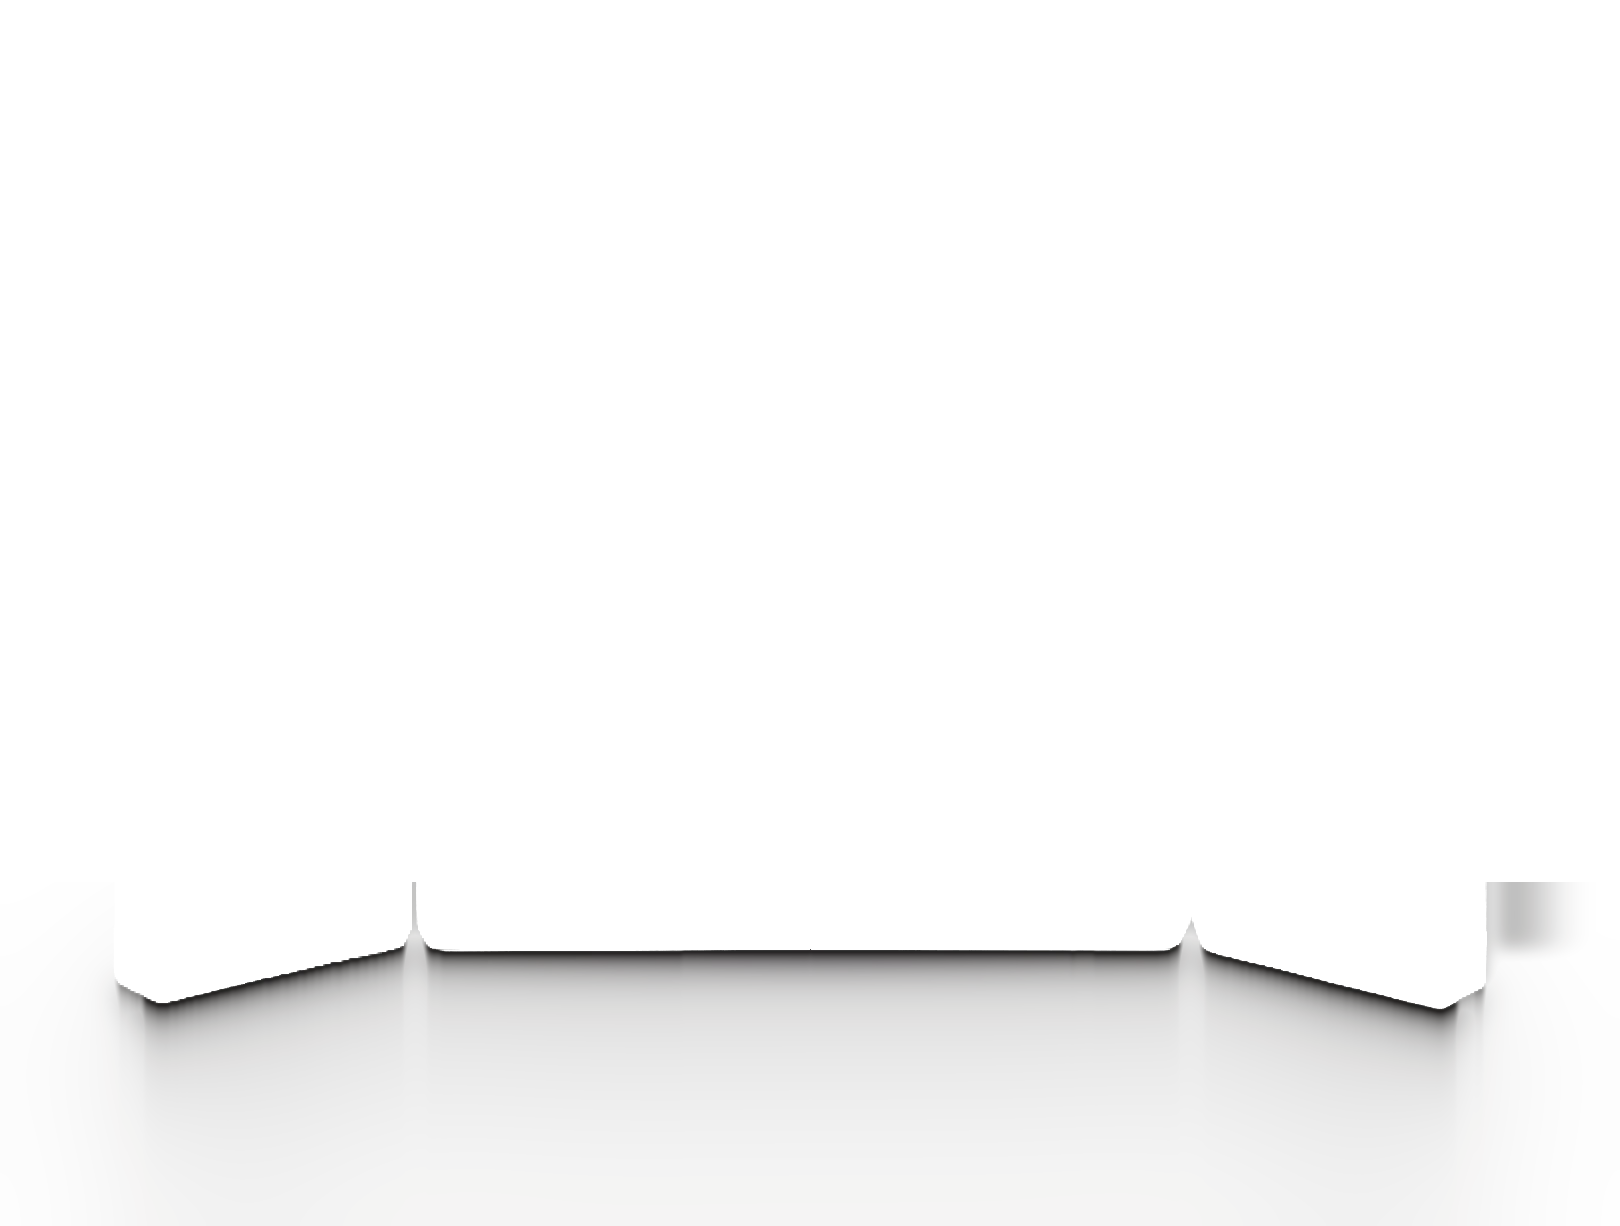
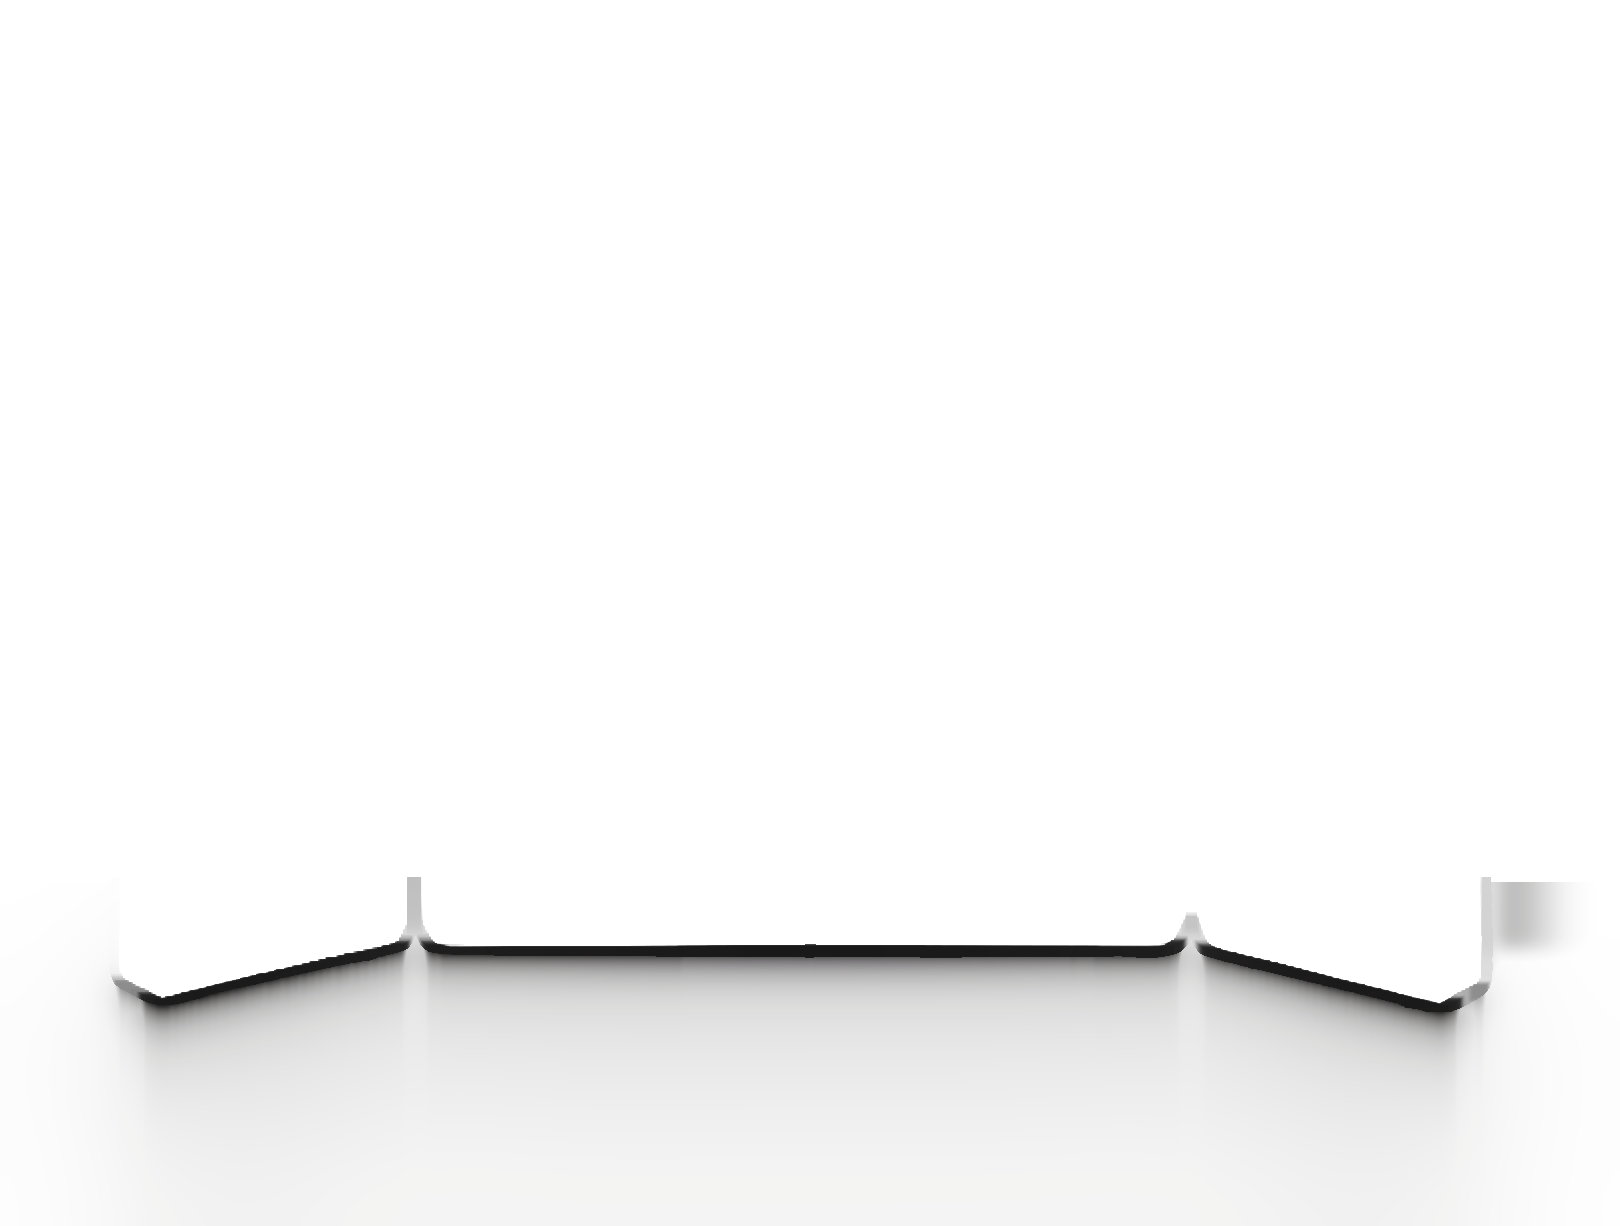
Home no longer shows the edition's line under the case ("Day Edition · Friday Call", "your local time") at any width. When the trunk has finished opening, its shadow no longer blinks: the case's shadow at rest comes on in the same frame as the clip ends (timed to this 4.42 s take) and the clip is cu

diff --git a/app/globals.css b/app/globals.css
@@ -1079,7 +1079,7 @@ main:has(.inktip[data-open="true"]) .night-cam[data-on] { opacity: .55; transiti
   font: 700 calc(15 * var(--u)) / 1 var(--font-typewriter), monospace; letter-spacing: .02em; color: var(--ink, #2a241c); }
 /* Links only once the camera is on the file: before, a click brings it. */
 a.jury-card__row, .jury-tag, .postcard { pointer-events: none; }
-[data-desk="open"] .desk-card--stack[data-side="here"] :is(a.jury-card__row, .jury-tag, .postcard) { pointer-events: auto; cursor: pointer; }
+[data-desk="open"] .desk-card--stack[data-side="here"] :is(a.jury-card__row, .jury-tag, .postcard, .sticky-note__go) { pointer-events: auto; cursor: pointer; }
 [data-desk="open"] .desk-card--stack[data-side="here"] a.jury-card__row:hover { background-color: rgba(179, 49, 42, .1); }
 [data-desk="open"] .desk-card--stack[data-side="here"] .postcard:hover { z-index: 5 !important; }
 /* A pointer over a file not in focus: its postcards come a little way out
@@ -1107,6 +1107,9 @@ a.jury-card__row, .jury-tag, .postcard { pointer-events: none; }
 .sticky-note__status { align-self: flex-start; margin-top: auto; padding: calc(3 * var(--u)) calc(5 * var(--u));
   border: calc(.6 * var(--u)) dashed #22283a; border-radius: calc(1.6 * var(--u));
   font: 700 calc(4.2 * var(--u)) / 1 var(--font-mono, ui-monospace), ui-monospace, monospace; letter-spacing: .18em; text-transform: uppercase; color: #22283a; }
+/* a case on Behance only (Atumatu): the note's foot is the red button there */
+.sticky-note__go { border: 0; background: #c21f10; color: #fff; text-decoration: none; }
+[data-desk="open"] .desk-card--stack[data-side="here"] .sticky-note__go:hover { background: #a3190c; }
 /* The row's last card: the way to Case Studies (/work), every case file.
    A plain card for now (DeskScene's ALL); its own folder later. */
 .desk-card--all { display: flex; flex-direction: column; justify-content: space-between; box-sizing: border-box;
@@ -1243,7 +1246,6 @@ a.jury-card__row, .jury-tag, .postcard { pointer-events: none; }
   background: radial-gradient(closest-side, rgba(20, 16, 12, .32), rgba(20, 16, 12, .14) 70%, transparent); }
 [data-desk="open"] .desk-card--stack[data-side="here"] .stack-fabric { transform: translate(calc(-50% - 20 * var(--u)), calc(-50% + 60 * var(--u))) rotate(-5deg); }
 [data-desk="open"] .desk-card--stack[data-side="here"] .postcard--portrait { transform: translate(calc(-50% + 140 * var(--u)), -50%) rotate(3deg); }
-[data-desk="open"] .desk-card--stack:has(.stack-fabric)[data-side="here"] .jury-tag { left: calc(50% + 6 * var(--u)); transform: translate(-50%, calc(28 * var(--u))) rotate(-4deg); }
 /* WayPro's moss (640 × 579, with its fly agarics) on the card's corner and
    more fly agarics (639 × 640) beside the stack, as on its board 04;
    fanned, the moss stays on the card. */
@@ -1252,7 +1254,9 @@ a.jury-card__row, .jury-tag, .postcard { pointer-events: none; }
 .stack-moss { z-index: 7; display: block; width: calc(84 * var(--u)); transform: translate(calc(-50% + 58 * var(--u)), calc(-50% - 52 * var(--u))) rotate(12deg); }
 .stack-moss > img:first-child { display: block; width: 100%; height: auto; }
 .stack-moss .stack-side { left: 15%; width: 70%; aspect-ratio: 600 / 415; }
-[data-desk="open"] .desk-card--stack[data-side="here"] .stack-moss { transform: translate(calc(-50% - 44 * var(--u)), calc(-50% - 58 * var(--u))) rotate(12deg); }
+/* open, on the card's top right corner, under the sticky note rather than
+   on it (it stood on the note's lower half) */
+[data-desk="open"] .desk-card--stack[data-side="here"] .stack-moss { transform: translate(calc(-50% - 4 * var(--u)), -50%) rotate(12deg); }
 .stack-mush { z-index: 0; display: block; width: calc(74 * var(--u)); transform: translate(calc(-50% + 136 * var(--u)), calc(-50% + 62 * var(--u))) rotate(-18deg); }
 /* lying on the desk they have a body (Kate, 28.09): caps and stems a
    little thick toward the camera, and their shadow — on the picture, not
@@ -1643,13 +1647,9 @@ html[data-desk-focus="ukrainska-15"] .desk-card[data-side="right"] { --slide: 15
   :root:is(:not([data-desk]), [data-desk="closed"]) :is(main:has(.case-stage), .scene-cam) { touch-action: pan-y; }
   :is([data-desk="award"], [data-desk="offduty"]) :is(main:has(.case-stage), .scene-cam) { touch-action: none; }
   :is([data-desk="award"], [data-desk="offduty"])[data-desk-arrived] .desk-plane { pointer-events: auto; }
-  /* the edition's line under the case goes along with it (on a tablet:
-     a phone does not show it, below), and the night's lamp pool with the
-     lamp */
-  :is(.hero-caption, .night-room) { translate: var(--pano-shift, 0px) 0; }
+  /* the night's lamp pool goes along with the lamp */
+  .night-room { translate: var(--pano-shift, 0px) 0; }
 }
-/* the edition's line under the case is not shown on a phone (Kate, 01.10) */
-@media (max-width: 767px) { .hero-caption { display: none; } }
 
 /* The wallet: a zero-width hinge at the spine, the two halves swung toward
    the room about it. The player: a still standing on the desk, its screen
@@ -1874,11 +1874,9 @@ html[data-desk-focus="ukrainska-15"] .desk-card[data-side="right"] { --slide: 15
 /* it stays where it lies: only its card comes up (see .u15-view) */
 [data-desk="open"] .desk-card--env:hover,
 [data-desk="open"] .desk-card--env:focus-within { transform: translateX(calc(var(--slide, 0) * var(--u))) rotate(var(--r)) translateZ(.1px); }
-/* The page around it: the lines under the case step aside; the column —
-   title, lead and index — stays as it is on every page, inked for the white
-   desk (over the dark wall it keeps its own colours). */
-.hero-caption { transition: opacity .5s ease; }
-[data-desk="open"] .hero-caption, [data-desk="award"] .hero-caption, [data-desk="profile"] .hero-caption, [data-desk="offduty"] .hero-caption { opacity: 0; pointer-events: none; }
+/* The page around it: the column — title, lead and index — stays as it is
+   on every page, inked for the white desk (over the dark wall it keeps its
+   own colours). */
 /* Over the desk the column's title and lead stay, but only its links take the
    pointer, so what lies under the words can still be picked up. The ink turns
    dark only where the column stands over the white desk (1440px and up);
@@ -2439,9 +2437,10 @@ html[data-desk-focus="ukrainska-15"] .desk-card[data-side="right"] { --slide: 15
    transitions with it, so a skip lands at once. */
 /* the closed trunk is in the server HTML; without the gate it never shows */
 :root:not([data-intro]):not([data-load]) .intro-open { display: none; }
-/* the clip carries the case's shadow while the doors swing; the desk's own
-   and the case's floor shadows wait, then take over from it at "shadow" */
-[data-load] .case-shadow { opacity: 0; transition: opacity .3s linear; }
+/* the clip carries the case's shadow while the doors swing; the case's
+   shadow at rest waits, then takes over from it at "shadow" in one frame,
+   as the clip is cut to its doors (IntroOpen) — no crossfade */
+[data-load] .case-shadow { opacity: 0; }
 [data-load~="shadow"] .case-shadow { opacity: 1; }
 /* the desk's pre-rendered shadow of the case is off: the case's shadow is the
    opening clip's own, kept at rest (app/page.tsx, rest_shadow.webp) */

diff --git a/components/IntroOpen.tsx b/components/IntroOpen.tsx
@@ -31,7 +31,7 @@ import { useCallback, useEffect, useRef, useState } from "react";
  *
  * The shadow on the desk is worked out from each frame's own silhouette and
  * baked into the clip below the case; its last frame, kept as
- * rest_shadow.webp, is the case's shadow at rest, and comes in at SHADOW_AT.
+ * rest_shadow.webp, is the case's shadow at rest, and comes in at END_AT.
  * The handle is the page's own throughout: it is the same closed and open.
  * The clip's wardrobe is empty (the model could not keep the clothes whole
  * through the swing); the page's hangers turn out to face the room one after
@@ -52,15 +52,19 @@ const FADE_MS = 300;
 const LAMP_AT = 250;
 const TEXT_AT = 300;
 const OPEN_AT = 700;
-/** the clip keeps its own shadow to the end; the page's copy of its last frame
- *  (rest_shadow.webp) comes in under it as it fades (clip seconds) */
-const SHADOW_AT = 4.95;
 /** the clip runs below the case box by its shadow: 146 of its 1226 rows */
 const CLIP_H = `${(1226 / 1080) * 100}%`;
 /** the doors are all but still: the files set off (clip seconds) */
-const FILES_AT = 4.5;
-/** the doors have stopped: the live case takes over (clip seconds) */
-const END_AT = 4.95;
+const FILES_AT = 3.97;
+/** The doors have stopped: the live case takes over (clip seconds; the take
+ *  runs 4.42s). The shadow changes hands in the same frame: rest_shadow.webp
+ *  (the page's copy of the clip's last frame) is on at once, and the clip is
+ *  cut to its doors (doors_mask.webp, the last frame's case without its
+ *  shadow) before it fades. Two half-faded copies of one shadow are lighter
+ *  than either, which was the blink after the doors stopped. */
+const END_AT = 4.38;
+const DOORS_MASK_SRC = "/suitcase/intro/doors_mask.webp";
+const DOORS_MASK = `url(${DOORS_MASK_SRC}) 0 0 / 100% 100% no-repeat`;
 /** the files' own run: the last one's delay plus its slide, and a margin */
 const FILES_MS = 600 + 800 + 150;
 /** how long a step may wait for what it shows before it goes anyway */
@@ -90,6 +94,7 @@ export default function IntroOpen() {
   // the poster stands in for the clip until it runs, then must go: the clip
   // is transparent between the doors, and the closed trunk would show there
   const [playing, setPlaying] = useState(false);
+  const [masked, setMasked] = useState(false);
   const video = useRef<HTMLVideoElement>(null);
   const ended = useRef(false);
   const filed = useRef(false);
@@ -105,11 +110,15 @@ export default function IntroOpen() {
     later(() => { if (performance.now() >= lastStep.current - 20) html().removeAttribute("data-load"); }, ms);
   }, [later]);
 
-  /** the clip is done: the live case takes over under a short fade */
-  const endClip = useCallback(() => {
+  /** the clip is done: the live case takes over under a short fade. Only a
+   *  clip that has run to its end is cut to its doors: on a skip they are
+   *  still swinging, and the mask is the last frame's. */
+  const endClip = useCallback((atRest = false) => {
     if (ended.current) return;
     ended.current = true;
+    setMasked(atRest);
     html().removeAttribute("data-intro");
+    add("shadow");
     add("clothes");
     doneIn(CLOTHES_MS);
     setFading(true);
@@ -144,6 +153,9 @@ export default function IntroOpen() {
     // alpha, so the pick is by engine, not by canPlayType.
     const safari = /Safari\//.test(ua) && !/Chrome\/|Chromium\/|Edg\//.test(ua);
     const id = requestAnimationFrame(() => setSrc(safari ? "/suitcase/intro/open.mov" : "/suitcase/intro/open.webm"));
+    // the doors' mask is needed in the frame the clip ends: fetched now, as
+    // a mask that has not loaded hides the whole clip
+    new Image().src = DOORS_MASK_SRC;
     later(() => add("lamp"), LAMP_AT);
     later(() => add("text"), TEXT_AT);
     // not started at all
@@ -228,14 +240,16 @@ export default function IntroOpen() {
           src={src}
           onTimeUpdate={(e) => {
             const t = e.currentTarget.currentTime;
-            if (t >= SHADOW_AT) add("shadow");
             if (t >= FILES_AT) pushFiles();
-            if (t >= END_AT) endClip();
+            if (t >= END_AT) endClip(true);
           }}
           onPlaying={() => setPlaying(true)}
-          onEnded={() => { add("shadow"); pushFiles(); endClip(); }}
+          onEnded={() => { pushFiles(); endClip(true); }}
           onError={land}
-          style={{ position: "absolute", left: 0, top: 0, width: "100%", height: CLIP_H, objectFit: "fill", display: "block" }}
+          style={{
+            position: "absolute", left: 0, top: 0, width: "100%", height: CLIP_H, objectFit: "fill", display: "block",
+            ...(masked ? { mask: DOORS_MASK, WebkitMask: DOORS_MASK } : null),
+          }}
         />
       )}
     </div>

diff --git a/components/desk/AwardStack.tsx b/components/desk/AwardStack.tsx
@@ -43,13 +43,13 @@ function juriesOf(project: string) {
 // how the postcards lie under the card, and fanned out beside it
 const UNDER = [[10, 12, 5], [-8, 16, -6], [14, -8, 9], [-12, -10, -3]];
 
-export default function AwardStack({ project, title, about, links = [], picture, flat, status = "Case study in progress", tag }: {
+export default function AwardStack({ project, title, about, links = [], picture, flat, away }: {
   project: string; title: string;
-  /** the note's foot: where the case study is */
-  status?: string;
-  /** what a pointer over the file shows, and a way there: where its case
-   *  is written up (else "In progress", while it has a card of awards) */
-  tag?: { label: string; href: string };
+  /** a case written up elsewhere (Behance): a pointer over the file shows
+   *  "On <where>", and the note's foot is a button there. Without it the
+   *  note says the case study is in progress, and the file "In progress"
+   *  while it has a card of awards. */
+  away?: { where: string; href: string };
   links?: { label: string; href: string; external?: boolean }[];
   /** lying flat and closed off the desk (the Case Studies index): no tag,
    *  sticky note or links beside it */
@@ -63,6 +63,8 @@ export default function AwardStack({ project, title, about, links = [], picture,
   // the card's head, as on every copy of it (lib/awards.ts)
   const head = CARD_HEAD[project];
   const juries = juriesOf(project);
+  const awayLink = away && { href: away.href, target: "_blank", rel: "noopener noreferrer", tabIndex: -1,
+    "aria-label": `${title}: on ${away.where} (opens in a new tab)` };
   return (
     <>
       {juries.map(({ jury, records }, i) => {
@@ -123,14 +125,16 @@ export default function AwardStack({ project, title, about, links = [], picture,
         })}
       </div>}
       {!flat && <>
-      {tag
-        ? <a className="stack-soon" href={tag.href} target="_blank" rel="noopener noreferrer" tabIndex={-1}
-            aria-label={`${title}: ${tag.label.replace(" ↗", "")} (opens in a new tab)`}>{tag.label}</a>
+      {awayLink
+        ? <a className="stack-soon" {...awayLink}>On {away!.where} ↗</a>
         : rows.length > 0 && <span className="stack-soon" aria-hidden>In progress</span>}
       <span className="sticky-note stack-note">
         <span className="sticky-note__kicker">{title}</span>
         <span className="sticky-note__text">{about}</span>
-        <span className="sticky-note__status">{status}</span>
+        {/* a case written up elsewhere: its way there, a red button on the note */}
+        {awayLink
+          ? <a className="sticky-note__status sticky-note__go" {...awayLink}>{away!.where} ↗</a>
+          : <span className="sticky-note__status">Case study in progress</span>}
       </span>
       {links.map((l) => (
         <a key={l.href} className="jury-tag" href={l.href} tabIndex={-1}

diff --git a/components/home/Home.tsx b/components/home/Home.tsx
@@ -11,7 +11,6 @@ import HeroAside from "@/components/HeroAside";
 import IntroOpen from "@/components/IntroOpen";
 import { useTime } from "@/components/TimeProvider";
 import { EDITIONS, editionForHour, editionForDate } from "@/lib/time";
-import { mono } from "@/components/ui/type";
 import { DeskPlanes, DeskHint, useDeskCamera } from "@/components/DeskScene";
 import Tardis from "./Tardis";
 import AwardCubby from "./AwardCubby";
@@ -268,16 +267,6 @@ export default function Home({ shelves, kit }: { shelves: ReactNode; kit: ReactN
           className="hero-aside-wrap basis-full order-first max-w-[34ch] mb-7 ml-0 mr-auto min-[1024px]:pr-6 min-[1024px]:ml-0 min-[1024px]:mr-0 min-[1024px]:absolute min-[1024px]:top-0 min-[1024px]:left-6 min-[1024px]:order-none min-[1024px]:basis-auto min-[1024px]:mb-0 min-[1024px]:max-w-none min-[1024px]:w-[19.65vw] min-[1440px]:w-[min(420px,calc(50vw-min(44vw,559px)+122px))]">
           <HeroAside />
         </div>
-      </div>
-
-      {/* Caption */}
-      <div className="hero-caption text-center -mt-2">
-        <p style={{ fontFamily: mono, fontSize: 12, letterSpacing: "0.15em" }} className="uppercase">
-          {edition.label}{edition.slogan ? ` · “${edition.slogan}”` : ""}
-        </p>
-        <p style={{ fontFamily: mono, fontSize: 10, letterSpacing: "0.12em" }} className="text-gray-400 uppercase mt-1">
-          {hour !== null ? `${((hour % 12) || 12)}:00 ${hour >= 12 ? "PM" : "AM"} · your local time` : ""}
-        </p>
       </div>
 
       {/* Over the desk only: how to move along it, which file is in front. */}

diff --git a/components/desk/CaseStack.tsx b/components/desk/CaseStack.tsx
@@ -53,9 +53,8 @@ export function StackDressing({ slug, title, pic, flat }: {
         <span className="stack-fabric" aria-hidden><Pic src="/items/atumatu/fabric.webp" {...p} /></span>
       )}
       <AwardStack project={PROJECT[slug].name} title={title} about={PROJECT[slug].about}
-        links={STACK_LINKS[slug] ?? []} flat={flat}
-        status={away && `Case study on ${away.where}`} tag={away && { label: `On ${away.where} ↗`, href: away.href }}
-        picture={PICTURE[slug] && { ...PICTURE[slug], href: STACK_LINKS[slug][0].href, src: srcOf(`/items/${slug}/postcard.webp`, p) }} />
+        links={STACK_LINKS[slug] ?? []} flat={flat} away={away}
+        picture={PICTURE[slug] && { ...PICTURE[slug], href: away?.href ?? STACK_LINKS[slug][0].href, src: srcOf(`/items/${slug}/postcard.webp`, p) }} />
       {slug === "waypro" && (
         <span className="stack-moss" aria-hidden>
           <Pic src="/items/waypro/moss.webp" {...p} />

diff --git a/components/desk/TapeStacks.css b/components/desk/TapeStacks.css
@@ -87,7 +87,9 @@
 .vt-tape[data-stand] .vt-tape__end--l { left: 0; top: 0; width: 100%; height: calc(var(--d) * var(--u));
   transform-origin: 50% 0; transform: translateZ(calc(var(--d) * -1 * var(--u))) rotateX(90deg); }
 .vt-tape[data-stand] .vt-tape__end--r { display: none; }
-.vt-tape[data-stand] .vt-card { left: calc((var(--t) + var(--d)) * .5 * var(--u) + 14 * var(--u)); top: 0;
+/* to the left of its cover, as the lying ones': on the right it ran over
+   the player and off the frame (Kate, 02.10, "It Chapter Two") */
+.vt-tape[data-stand] .vt-card { left: calc((var(--t) - var(--d)) * .5 * var(--u) - 274 * var(--u)); top: 0;
   transform: translateZ(calc((var(--t) - var(--d)) * .5 * var(--u))); }
 
 /* its card beside it, as the books' (BookShelf.css .bs-card), at the

diff --git a/components/desk/stacks.ts b/components/desk/stacks.ts
@@ -25,7 +25,6 @@ const BEHANCE = {
 
 export const STACK_LINKS: Record<string, { label: string; href: string; external?: boolean }[]> = {
   waypro: [{ label: "Behance ↗", href: BEHANCE.waypro, external: true }],
-  atumatu: [{ label: "Behance ↗", href: BEHANCE.atumatu, external: true }],
 };
 
 /** A case written up only elsewhere, with no page here: where, and when it
